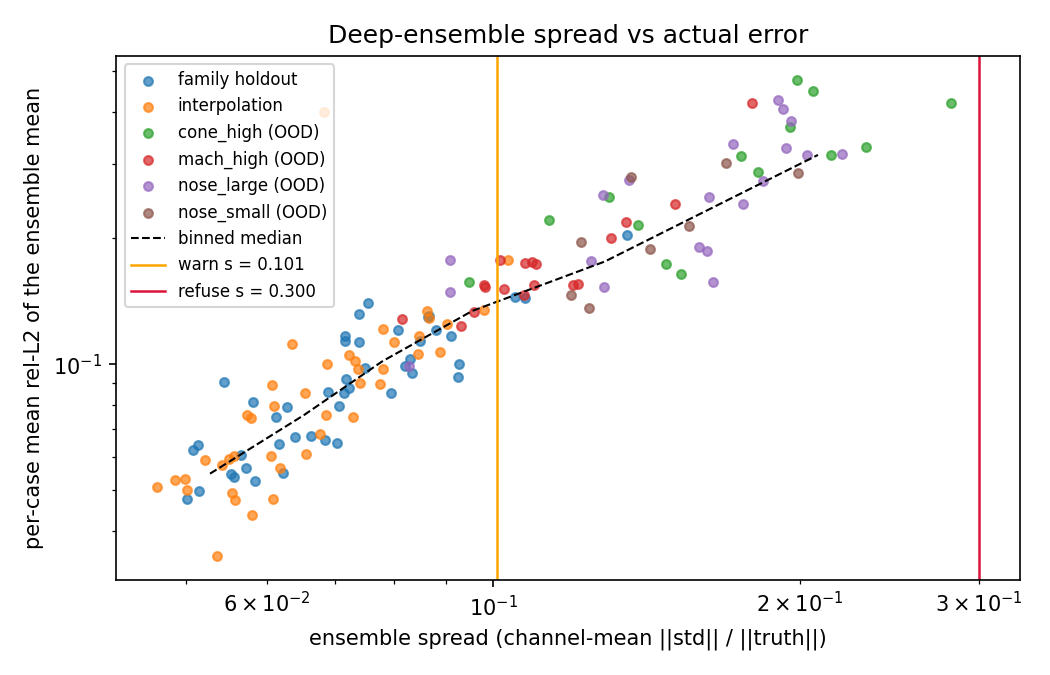
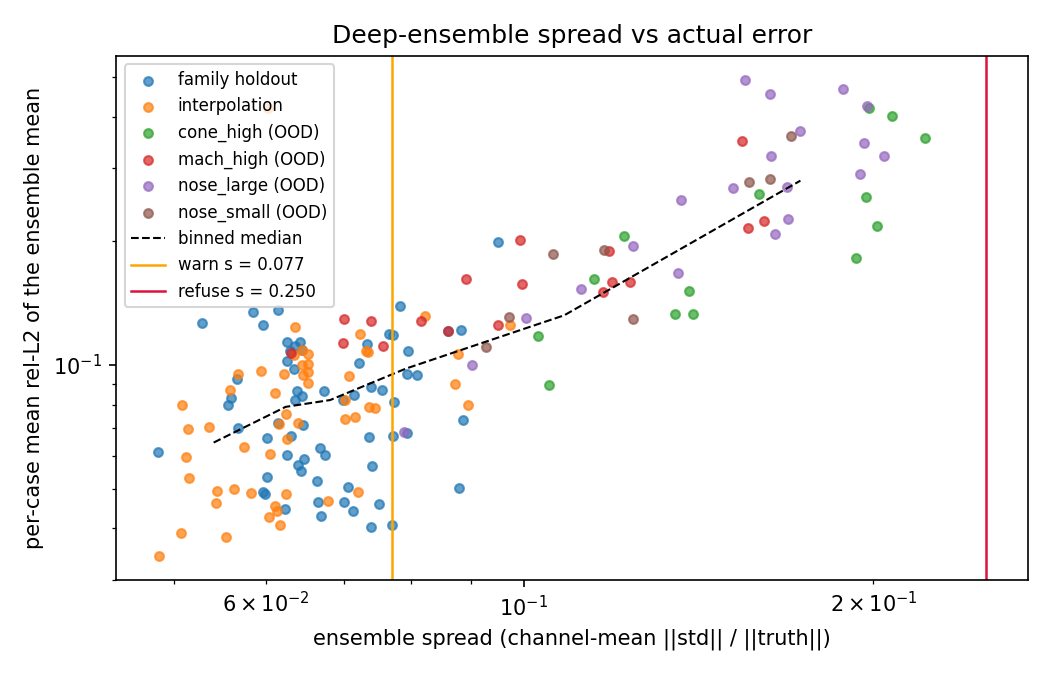
v3 ensemble results, recalibrated thresholds, README corrections
Five-member ensemble trained on all 753 cases now backs the dashboard.
Thresholds recalibrated: guard 0.07 (the code said 0.038 while the README
quoted 0.07), warn 0.077 at val p90, refuse 0.25 just past the 0.222 max
eval spread.

README corrections against the actual ablation table: M=64 wins two of four
OOD slabs, not most, and nose_small peaks at M=8 rather than improving
through M=64. Pooled OOD error falls at every grid step, so that optimum is
unbracketed. Spread calibration is now stated per regime: 0.74-0.86 OOD but
0.05 on the family holdout, which is the figure the in-box acquisition
actually depends on.

diff --git a/app/inference.py b/app/inference.py
@@ -39,11 +39,7 @@ from src.models.transolver import Transolver
 
 ROOT = Path(__file__).resolve().parents[1]
 ENSEMBLE_DIRS = [
-    ROOT / "data/processed/ablation/run_m32",
-    ROOT / "data/processed/ensemble/run_m32_s1",
-    ROOT / "data/processed/ensemble/run_m32_s2",
-    ROOT / "data/processed/ensemble/run_m32_s3",
-    ROOT / "data/processed/ensemble/run_m32_s4",
+    ROOT / f"data/processed/ensemble_v3/run_m32_v3_s{s}" for s in range(5)
 ]
 
 # controls not exposed as sliders are fixed at box midpoints / the training wall
@@ -51,11 +47,13 @@ R_B_RATIO = 3.0      # R_b / R_n, GEOM_BOX midpoint
 R_S_RATIO = 0.10     # R_s / R_b, near the box midpoint
 T_WALL = 300.0       # K, isothermal cold wall (fixed across the whole dataset)
 
-# decision thresholds, fixed from the validation split in the ensemble UQ study
-GUARD_DIST = 0.038   # L-inf box exceedance above this -> refuse
+# decision thresholds, recalibrated on the ensemble backing ENSEMBLE_DIRS. the
+# guard distance is not a constant: it tracks how densely the extrapolation
+# region has been sampled, and moved outward from 0.038 as the OOD slabs grew
+GUARD_DIST = 0.07    # L-inf box exceedance above this -> refuse
 KN_MAX = 0.01        # continuum floor; above this -> refuse
-WARN_SPREAD = 0.101  # val-split p90 ensemble spread
-REFUSE_SPREAD = 0.25 # in-box backstop for inputs more uncertain than anything validated
+WARN_SPREAD = 0.077  # val-split p90 ensemble spread
+REFUSE_SPREAD = 0.25 # in-box backstop, just past the 0.222 max spread seen in eval
 
 
 # ============================================================================================

diff --git a/scripts/ensemble_uq.py b/scripts/ensemble_uq.py
@@ -300,7 +300,7 @@ def main() -> None:
     p.add_argument("--out", default="data/processed/ensemble")
     p.add_argument("--per-case", default=None, metavar="JSON",
                    help="skip inference; analyze an existing ensemble_per_case.json")
-    p.add_argument("--guard-dist", type=float, default=0.038,
+    p.add_argument("--guard-dist", type=float, default=0.07,
                    help="envelope guard threshold on box exceedance")
     p.add_argument("--warn-spread", type=float, default=None,
                    help="spread above which the decision is warn (default: val p90)")

diff --git a/README.md b/README.md
@@ -6,21 +6,25 @@ ICML 2024, [arXiv:2402.02366](https://arxiv.org/abs/2402.02366)); ground truth
 is SU2 axisymmetric laminar Navier-Stokes.
 
 Work in progress. The pipeline is validated, the sweep is complete, and a
-slice-count ablation plus a calibrated deep ensemble are in (results below).
+slice-count ablation, a calibrated deep ensemble, and one active-learning
+iteration are in (results below).
 
 ## Where things stand
 
 The stack was validated end-to-end on AirfRANS first, then the SU2 pipeline
 on a canonical case against three analytical correlations (both below). A
-sweep over the sphere-cone design space has produced 727 converged cases: a
-core box of 667 cases plus out-of-distribution slabs at large and small nose
-radius, high cone half-angle, and Mach above 25.
+sweep over the sphere-cone design space produced 727 converged cases: a core
+box of 667 cases plus out-of-distribution slabs at large and small nose
+radius, high cone half-angle, and Mach above 25. An active-learning pass
+added 26 more, chosen where the ensemble disagreed with itself, bringing the
+dataset to 753.
 
 On the modeling side, a first Transolver reproduces held-out flow fields
 (`data/samples/field_prediction.png` shows predicted vs SU2 primitives on an
-unseen case). A slice-count ablation and a five-member deep ensemble with
-calibrated uncertainty follow; both are in the results below, evaluated
-against every out-of-distribution slab including the high-Mach one.
+unseen case). A slice-count ablation, a five-member deep ensemble with
+calibrated uncertainty, and the before/after on the active-learning cases
+are all in the results below, evaluated against every out-of-distribution
+slab including the high-Mach one.
 
 ## Evaluation questions
 
@@ -36,16 +40,20 @@ against every out-of-distribution slab including the high-Mach one.
 
 ## Results
 
-Numbers below are on the full sweep: 727 converged cases (667 core plus
+The dataset is 753 converged cases: a 727-case sweep (667 core plus
 out-of-distribution slabs at large nose radius, small nose radius, high cone
-angle, and Mach above 25). Every OOD slab, including the high-Mach one, is
-now evaluated. Relative L2 is per-channel, in physical units after
-de-normalization, then averaged over the four primitives.
+angle, and Mach above 25) plus 26 cases chosen by the active-learning loop
+described below. Every evaluation tier holds the same cases throughout, since
+the loop cases are routed into training and never into a held-out tier. All
+four out-of-distribution slabs are evaluated. Relative L2 is per-channel, in
+physical units after de-normalization, then averaged over the four
+primitives.
 
 ### Slice-count ablation
 
 Mean relative L2 per evaluation tier, sweeping the slice count M (best per
-column in bold):
+column in bold). These four models predate the loop, so they train on the
+727-case sweep alone:
 
 | M  | interpolation | family holdout | cone_high | mach_high | nose_large | nose_small | OOD pooled |
 |----|------|------|------|------|------|------|------|
@@ -54,15 +62,21 @@ column in bold):
 | 32 | **0.100** | **0.104** | 0.337 | **0.189** | 0.292 | 0.277 | 0.270 |
 | 64 | 0.108 | 0.111 | **0.307** | 0.202 | **0.269** | 0.286 | **0.260** |
 
-The optimum slice count still shifts with the evaluation regime, and adding
-the Mach-above-25 slab does not change the direction: M=32 is best
-in-distribution (interpolation and family holdout); M=64 is best on the
-pooled out-of-distribution metric and on most individual OOD slabs.
-Mach extrapolation is the one slab where more slices stop helping past
-M=32; every other slab keeps improving through M=64. More slices generally
-help extrapolation after they stop helping interpolation: the
-Physics-Attention bottleneck binds hardest where the flow leaves the
-training box. Dropping below 16 slices costs accuracy everywhere.
+The optimum slice count shifts with the evaluation regime. In-distribution
+the answer is firm: M=32 wins both interpolation and family holdout, and it
+is bracketed, since M=64 is worse on each. Out of distribution the grid says
+less than it appears to. M=64 wins the pooled metric at 0.260, but on
+individual slabs it takes two of four, cone_high and nose_large. Mach
+extrapolation prefers M=32 by 0.013 over 18 cases and nose_small prefers M=8
+over 8 cases; neither margin carries weight at those sample sizes. Pooled
+OOD error also falls at every step of the grid, 0.313 down to 0.260, so the
+out-of-distribution optimum is not bracketed and may sit past M=64. Finding
+it would need M=96 and M=128, a full retrain each.
+
+What the grid does support is that more slices help extrapolation after they
+have stopped helping interpolation, the Physics-Attention bottleneck binding
+hardest where the flow leaves the training box, and that dropping below 16
+slices costs accuracy everywhere.
 
 Within the box, geometry generalization is nearly free. At M=32 the family
 holdout, whole geometry clusters unseen in training (0.104), is barely harder
@@ -70,35 +84,42 @@ than freestream interpolation on seen shapes (0.100). The 3x error jump is at
 the envelope boundary, not between geometry tiers. The
 error-vs-envelope-distance figure (`data/samples/envelope_distance.png`)
 puts a threshold on it: binned median error doubles about 7% outside the
-box, which becomes the geometric half of the decision rule below. That
-threshold moved from an earlier estimate of 4% once the high-Mach and
-larger cone_high slabs were added; the boundary is real but its exact
-location depends on how much of the extrapolation region has been sampled.
+box, which becomes the geometric half of the decision rule below. The
+boundary is real, but its measured location is not a fixed property of the
+model. On an earlier, sparser out-of-distribution sample the same figure put
+it at 3.8%, and it moved outward to 7% once the cone_high slab grew from 5
+cases to 14 and the mach_high slab arrived with 18. Treat it as a threshold
+calibrated against the extrapolation data on hand, not a constant.
 
 ### Uncertainty and the trust/warn/refuse rule
 
 Five Transolvers at M=32, identical splits and data, differing only in
 initialization and data order (a deep ensemble). The ensemble mean is the
-prediction, the spread across members is the uncertainty. Averaging beats the
-best single member in-distribution and on the high-Mach slab:
+prediction, the spread across members is the uncertainty. This is the model
+the dashboard serves, trained on all 753 cases. Averaging beats the best
+single member on every tier:
 
 | tier | ensemble | best single member | mean spread |
 |------|------|------|------|
-| interpolation    | 0.091 | 0.100 | 0.068 |
-| family holdout   | 0.092 | 0.104 | 0.073 |
-| cone_high (OOD)  | 0.296 | 0.288 | 0.176 |
-| mach_high (OOD)  | 0.180 | 0.189 | 0.114 |
-| nose_large (OOD) | 0.255 | 0.251 | 0.158 |
-| nose_small (OOD) | 0.218 | 0.241 | 0.146 |
+| interpolation    | 0.084 | 0.092 | 0.064 |
+| family holdout   | 0.083 | 0.094 | 0.069 |
+| cone_high (OOD)  | 0.220 | 0.250 | 0.160 |
+| mach_high (OOD)  | 0.162 | 0.170 | 0.103 |
+| nose_large (OOD) | 0.276 | 0.277 | 0.153 |
+| nose_small (OOD) | 0.208 | 0.223 | 0.128 |
 
-On cone_high and nose_large the ensemble mean stays within noise of the best
-single member, same as before; the ensemble's clear wins are in-distribution
-and now also on mach_high.
+The margin over the best member is largest where the flow leaves the training
+box, apart from nose_large, where the two are indistinguishable.
 
-Spread tracks actual error: the rank correlation between per-case spread and
-per-case error is 0.94 pooled over all evaluation tiers, 0.86 on each
-in-distribution tier, 0.76-0.82 per OOD slab. Spread is a usable error proxy
-that needs no ground truth (`data/samples/spread_calibration.png`).
+Spread tracks actual error out of distribution: the rank correlation between
+per-case spread and per-case error runs 0.74 to 0.86 across the four OOD
+slabs, 0.72 pooled. In-distribution it is much weaker, 0.55 on interpolation
+and 0.05 on the family holdout, because in-box errors are packed into a
+narrow range and the ranking is mostly noise
+(`data/samples/spread_calibration.png`). Spread is a usable error proxy for
+detecting extrapolation, not for ranking cases the model already handles
+well. The pooled 0.72 is inflated by the OOD tiers spanning a wide error
+range and should not be quoted as if it held in-box.
 
 That gives an operational rule for whether to trust a prediction. Refuse if
 the input falls outside the training envelope (box exceedance, or Knudsen
@@ -107,15 +128,71 @@ moderate spread; trust otherwise. Over the evaluation cases:
 
 | decision | cases | median error | p90 error |
 |------|------|------|------|
-| trust  | 86 | 0.085 | 0.129 |
-| warn   | 10 | 0.182 | 0.218 |
-| refuse | 52 | 0.219 | 0.404 |
+| trust  | 93 | 0.078 | 0.114 |
+| warn   | 18 | 0.120 | 0.187 |
+| refuse | 68 | 0.159 | 0.362 |
 
 The buckets order cleanly by actual error. The honest limitation: spread
 cannot catch a consensus error. One in-box case sits at 0.40 error with low
 spread because all five members share the same systematic miss, so they agree
 with each other. Ensemble disagreement measures epistemic uncertainty, not a
 shared blind spot.
+
+### Active-learning loop
+
+One iteration of the obvious loop: score a Latin-hypercube pool over the six
+free design axes by ensemble spread, pick a diverse batch of the most
+uncertain in-envelope candidates, run them through SU2, retrain, compare.
+Thirty cases were selected and run, 26 converged. The 13% failure rate is
+above the sweep's 3.5%, which is expected: acquisition targets high-spread
+regions and those are where the solver strains too. Failures were logged and
+skipped, not rescued.
+
+The control is a five-member ensemble trained on the 727 sweep cases; the
+treatment is the same recipe with the 26 loop cases added. Both share a split
+seed, so every evaluation tier holds the same cases and the per-case
+difference is paired.
+
+| tier | n | before | after | delta | 95% CI | p |
+|------|---|--------|-------|-------|--------|---|
+| interpolation    | 54 | 0.085 | 0.084 | -0.0013 | [-0.0035, +0.0008] | 0.35 |
+| family holdout   | 65 | 0.090 | 0.083 | -0.0078 | [-0.0118, -0.0041] | <0.001 |
+| cone_high (OOD)  | 14 | 0.236 | 0.220 | -0.0159 | [-0.0245, -0.0057] | 0.03 |
+| mach_high (OOD)  | 18 | 0.171 | 0.162 | -0.0089 | [-0.0159, -0.0019] | 0.03 |
+| nose_large (OOD) | 20 | 0.281 | 0.276 | -0.0048 | [-0.0144, +0.0041] | 0.52 |
+| nose_small (OOD) | 8  | 0.244 | 0.208 | -0.0364 | [-0.0501, -0.0225] | 0.01 |
+
+Measuring error at the acquired points themselves would prove nothing: those
+cases are in the treatment's training set and were never in the control's, so
+the treatment wins there by construction. The test that means something is
+whether held-out error improved *more near the acquired points than far from
+them*, in six-dimensional parameter distance normalized by the core-box
+width:
+
+| distance to nearest acquired case | n | before | after | delta |
+|-----------------------------------|---|--------|-------|-------|
+| 0.21 to 0.50 | 40 | 0.093 | 0.083 | -0.0097 |
+| 0.50 to 0.59 | 39 | 0.084 | 0.081 | -0.0031 |
+| 0.59 to 0.80 | 40 | 0.087 | 0.086 | -0.0017 |
+
+The near bin improves about six times as much as the far bin, and the trend
+is monotone (Spearman 0.31 between distance and error change, p = 0.001 over
+119 cases). That is the loop mechanism doing what it should: data added where
+the ensemble was unsure helps most in the neighborhood of what was added.
+There is no global regression: 31% of held-out cases got worse, against a
+mean change of -0.0075 (`data/samples/loop_neighborhood.png`).
+
+Three caveats, none of them small. Twenty-six cases on a 481-case training
+split is a 5% increase, so the absolute movement is a few thousandths of
+relative L2 and this verifies a mechanism rather than delivering an accuracy
+result. Twenty-six points is thin cover for a six-dimensional box: the median
+held-out case sits 0.54 from the nearest acquired case but only 0.24 from the
+nearest case already in training, so most of the evaluation set has no
+acquired point near enough to be affected. And the loop inherits the blind
+spot of its own acquisition signal, since spread-driven selection cannot see
+consensus errors, the failure mode above. The out-of-distribution gains are
+worth noting but not over-reading: acquisition ran in-box only, so nothing
+targeted those slabs, and nose_small rests on 8 cases.
 
 ## Validating the stack on AirfRANS
 
@@ -183,6 +260,12 @@ analytical correlations before acceptance. The runner is resumable: a SQLite
 ledger tracks per-case status, so interrupted sessions pick up where they
 stopped and failed cases are logged and skipped rather than rescued.
 
+`scripts/acquire_loop.py` and `scripts/run_loop_cases.py` add cases the same
+way, differing only in how the design points are chosen: by ensemble spread
+rather than Latin hypercube. They carry `group_name='loop'` in the ledger,
+which routes them into the training split and keeps them out of every
+held-out tier.
+
 The raw sweep output is not committed. The converged cases (as
 `case_*.npz` tensors plus the ledger) are published as the Kaggle dataset
 `zeteixeira/su2-hypersonic-sphere-cone`, which is what the training
@@ -228,6 +311,9 @@ scripts/
   train.py                 # training CLI (slice sweep, ensembles, eval-only)
   slice_ablation.py        # ablation tables + envelope-distance figure
   ensemble_uq.py           # deep-ensemble UQ and trust/warn/refuse
+  acquire_loop.py          # active-learning acquisition scan over the box
+  run_loop_cases.py        # drives the acquired cases through SU2
+  loop_report.py           # before/after report for the loop iteration
 notebooks/
   01_validate_stack.ipynb  # AirfRANS validation, Kaggle orchestrator
   02_train_su2.ipynb       # SU2 training runs, Kaggle orchestrator

diff --git a/app/DEPLOY.md b/app/DEPLOY.md
@@ -25,7 +25,7 @@ $dst = "..\hf_space"; New-Item -ItemType Directory -Force $dst; `
 Copy-Item app\app.py, app\inference.py -Destination (New-Item -ItemType Directory -Force "$dst\app"); `
 Copy-Item app\README.md, app\requirements.txt, app\packages.txt -Destination $dst; `
 Copy-Item -Recurse src "$dst\src"; `
-foreach ($m in "data\processed\ablation\run_m32","data\processed\ensemble\run_m32_s1","data\processed\ensemble\run_m32_s2","data\processed\ensemble\run_m32_s3","data\processed\ensemble\run_m32_s4") { `
+foreach ($s in 0..4) { $m = "data\processed\ensemble_v3\run_m32_v3_s$s"; `
   $d = New-Item -ItemType Directory -Force "$dst\$m"; `
   Copy-Item "$m\best.pt","$m\norm_stats.pt","$m\final_eval.json" -Destination $d }
 ```
